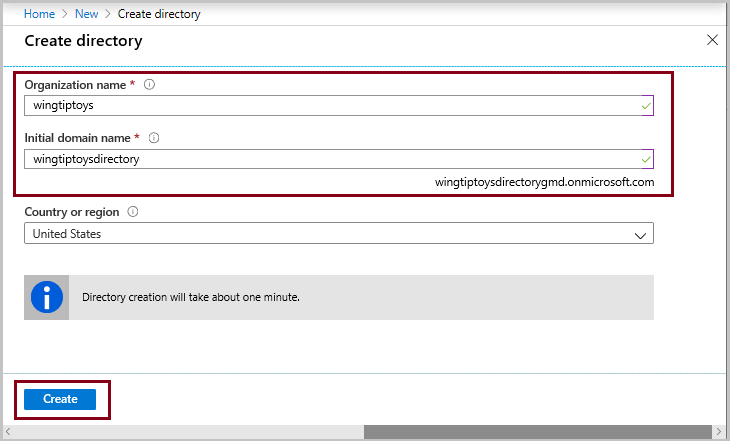
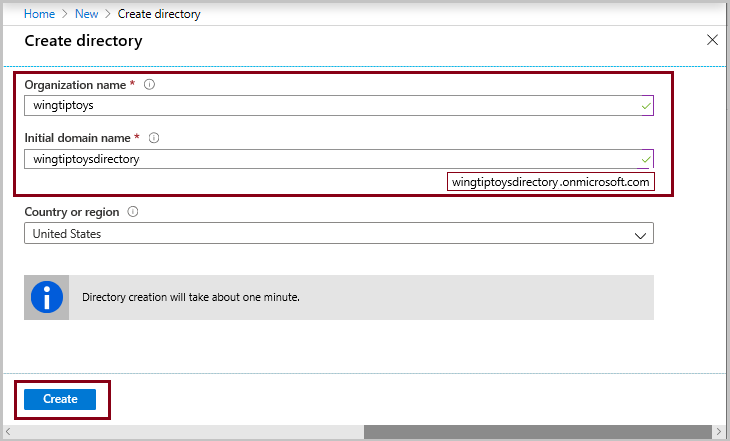
Revising to new UI

Changed region(s): [[0.6027, 0.3832, 0.9041, 0.4422]]

diff --git a/java/spring-framework/configure-spring-boot-starter-java-app-with-azure-active-directory.md b/java/spring-framework/configure-spring-boot-starter-java-app-with-azure-active-directory.md
@@ -59,15 +59,17 @@ The following prerequisites are required in order to complete the steps in this 
 
    ![Create new Azure Active Directory instance][create-directory-01]
 
-1. Enter your **Organization name** and your **Initial domain name**. Copy the full URL of your directory; you will use that to add user accounts later in this tutorial. (For example: `wingtiptoysdirectory.onmicrosoft.com`.) When you have finished, click **Create**. It will take a few minutes to create the new resource.
+1. Enter your **Organization name** and your **Initial domain name**. Copy the full URL of your directory; you will use that to add user accounts later in this tutorial. (For example: `wingtiptoysdirectory.onmicrosoft.com`.) 
+
+Copy the full URL of your directory; you will use that to add user accounts later in this tutorial. (For example: wingtiptoysdirectory.onmicrosoft.com.).
+
+When you have finished, click **Create**. It will take a few minutes to create the new resource.
 
    ![Specify Azure Active Directory names][create-directory-02]
 
 1. When complete, click to access the new directory.
 
    ![Select your Azure account name][create-directory-03]
-
-   -----> Tenant ID is showing in current ID, but old ID asks for Directory ID
 
 1. Copy the **Tenant ID**; you will use that value to configure your *application.properties* file later in this tutorial.
 
@@ -83,9 +85,10 @@ The following prerequisites are required in order to complete the steps in this 
 
    ![Create new app registration][create-app-registration-02]
 
-4. When the page for your app registration appears, copy your **Application ID** and the **Tenant ID**; you will use these values to configure your *application.properties* file later in this tutorial. 
+4. When the page for your app registration appears, copy your **Application ID** and the **Tenant ID**; you will use these values to configure your *application.properties* file later in this tutorial.
 
----> Instructions diverge to far from new UI here --> Click **Settings**, and then click **Keys**.
+Click **Settings**, and then click **Keys**.
+---> Instructions diverge to far from new UI here --> 
 
    ![Create app registration keys][create-app-registration-03]
 
